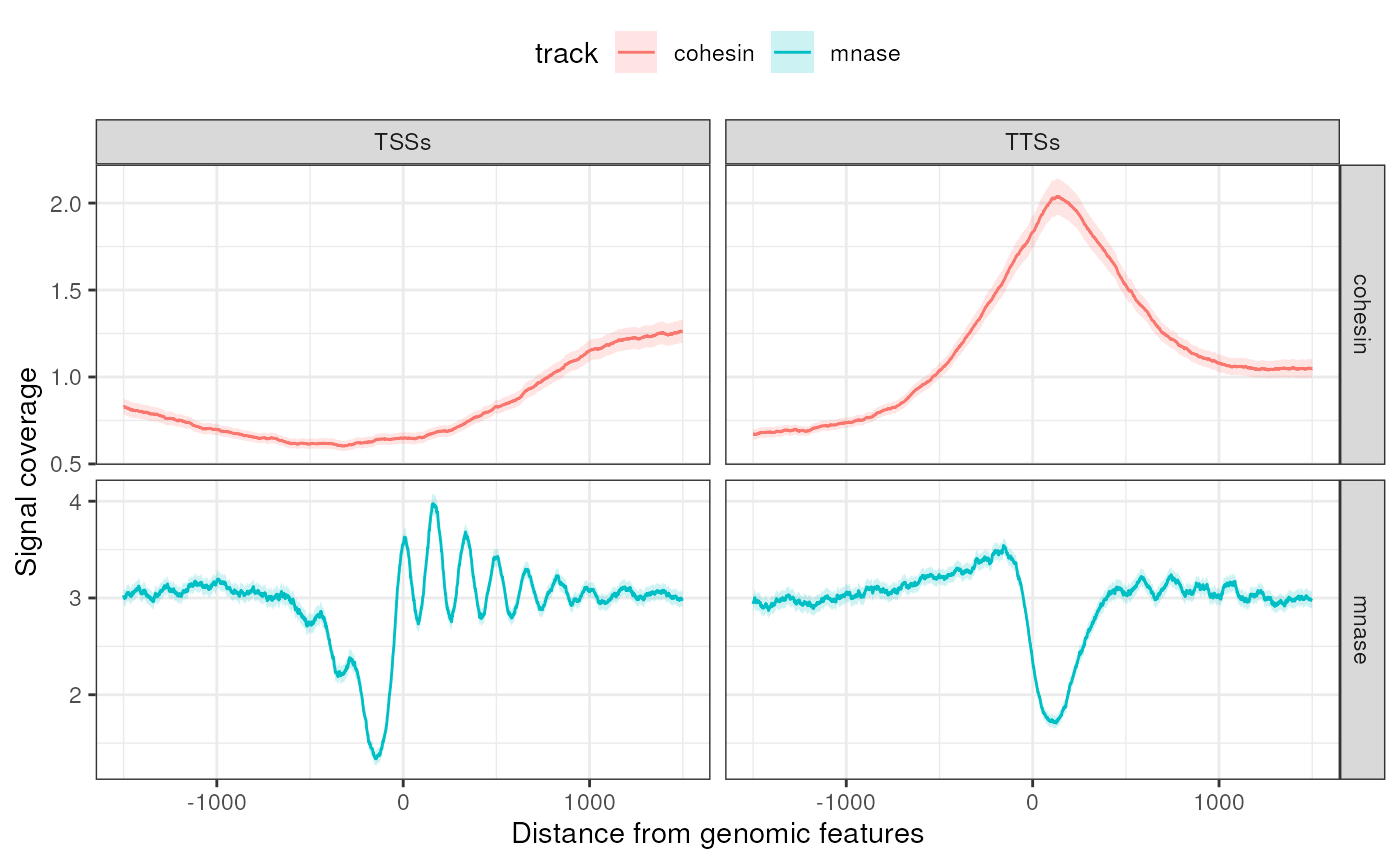
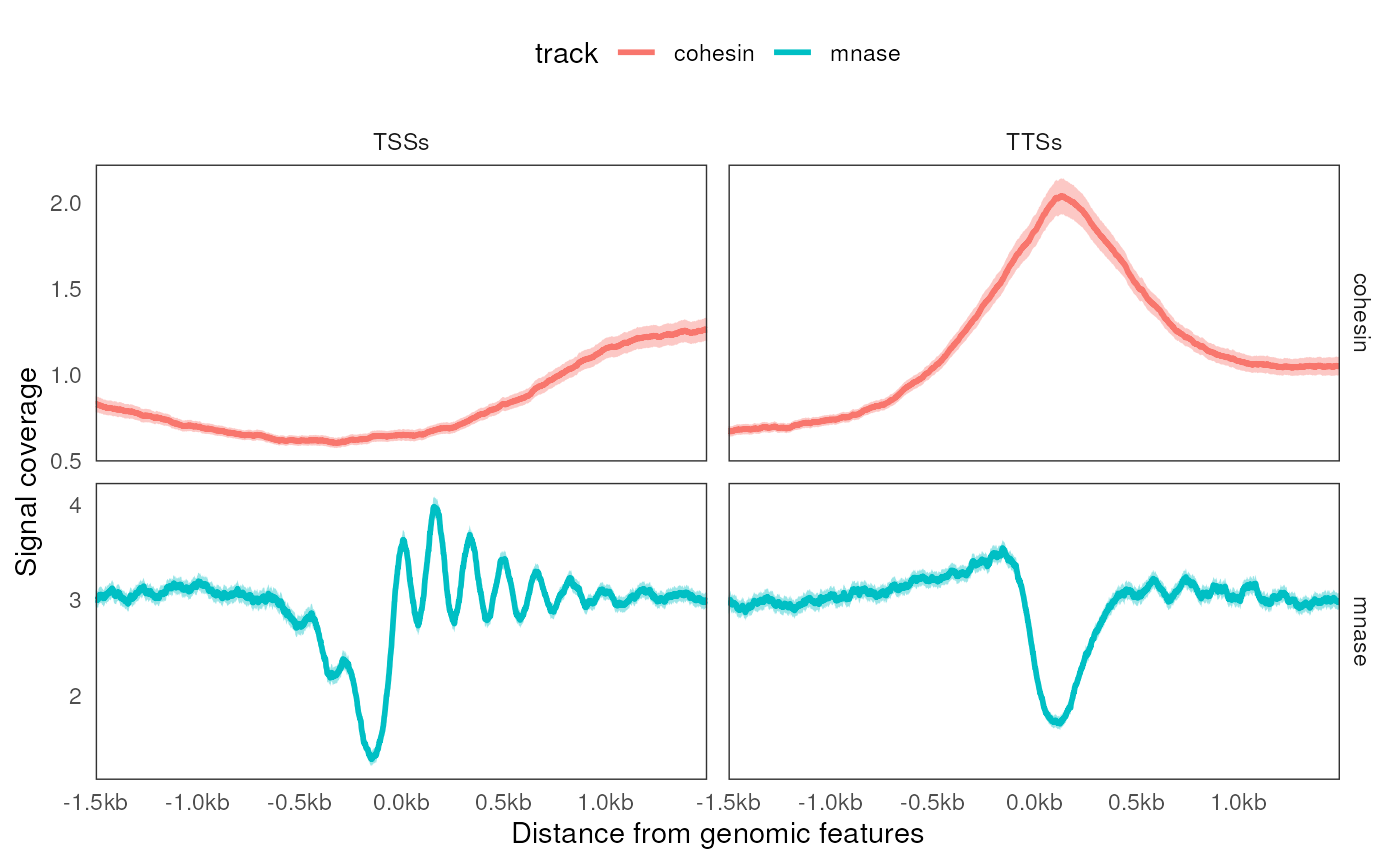
Deploying to gh-pages from @ js2264/Bioc2024tidyworkshop@3468d8a08f8244f174192cf76b7472bbe013caef 🚀

diff --git a/articles/workshop.html b/articles/workshop.html
@@ -921,18 +921,18 @@ features<a class="anchor" aria-label="anchor" href="#creating-a-coverageexperime
 <span><span class="va">tib</span></span>
 <span><span class="co">#&gt; <span style="color: #949494;"># A tibble: 21,402,000 × 8</span></span></span>
 <span><span class="co">#&gt; <span style="color: #949494;"># Groups:   track, features, ranges [7,134]</span></span></span>
-<span><span class="co">#&gt;    track features chr   ranges         strand coord coverage coord.scaled</span></span>
-<span><span class="co">#&gt;    <span style="color: #949494; font-style: italic;">&lt;chr&gt;</span> <span style="color: #949494; font-style: italic;">&lt;chr&gt;</span>    <span style="color: #949494; font-style: italic;">&lt;chr&gt;</span> <span style="color: #949494; font-style: italic;">&lt;chr&gt;</span>          <span style="color: #949494; font-style: italic;">&lt;chr&gt;</span>  <span style="color: #949494; font-style: italic;">&lt;dbl&gt;</span>    <span style="color: #949494; font-style: italic;">&lt;dbl&gt;</span>        <span style="color: #949494; font-style: italic;">&lt;dbl&gt;</span></span></span>
-<span><span class="co">#&gt; <span style="color: #BCBCBC;"> 1</span> mnase TSSs     II    II:4290-7289:+ +       <span style="text-decoration: underline;">4</span>290        0        -<span style="color: #BB0000; text-decoration: underline;">1</span><span style="color: #BB0000;">500</span></span></span>
-<span><span class="co">#&gt; <span style="color: #BCBCBC;"> 2</span> mnase TSSs     II    II:4290-7289:+ +       <span style="text-decoration: underline;">4</span>291        0        -<span style="color: #BB0000; text-decoration: underline;">1</span><span style="color: #BB0000;">499</span></span></span>
-<span><span class="co">#&gt; <span style="color: #BCBCBC;"> 3</span> mnase TSSs     II    II:4290-7289:+ +       <span style="text-decoration: underline;">4</span>292        0        -<span style="color: #BB0000; text-decoration: underline;">1</span><span style="color: #BB0000;">498</span></span></span>
-<span><span class="co">#&gt; <span style="color: #BCBCBC;"> 4</span> mnase TSSs     II    II:4290-7289:+ +       <span style="text-decoration: underline;">4</span>293        0        -<span style="color: #BB0000; text-decoration: underline;">1</span><span style="color: #BB0000;">497</span></span></span>
-<span><span class="co">#&gt; <span style="color: #BCBCBC;"> 5</span> mnase TSSs     II    II:4290-7289:+ +       <span style="text-decoration: underline;">4</span>294        0        -<span style="color: #BB0000; text-decoration: underline;">1</span><span style="color: #BB0000;">496</span></span></span>
-<span><span class="co">#&gt; <span style="color: #BCBCBC;"> 6</span> mnase TSSs     II    II:4290-7289:+ +       <span style="text-decoration: underline;">4</span>295        0        -<span style="color: #BB0000; text-decoration: underline;">1</span><span style="color: #BB0000;">495</span></span></span>
-<span><span class="co">#&gt; <span style="color: #BCBCBC;"> 7</span> mnase TSSs     II    II:4290-7289:+ +       <span style="text-decoration: underline;">4</span>296        0        -<span style="color: #BB0000; text-decoration: underline;">1</span><span style="color: #BB0000;">494</span></span></span>
-<span><span class="co">#&gt; <span style="color: #BCBCBC;"> 8</span> mnase TSSs     II    II:4290-7289:+ +       <span style="text-decoration: underline;">4</span>297        0        -<span style="color: #BB0000; text-decoration: underline;">1</span><span style="color: #BB0000;">493</span></span></span>
-<span><span class="co">#&gt; <span style="color: #BCBCBC;"> 9</span> mnase TSSs     II    II:4290-7289:+ +       <span style="text-decoration: underline;">4</span>298        0        -<span style="color: #BB0000; text-decoration: underline;">1</span><span style="color: #BB0000;">492</span></span></span>
-<span><span class="co">#&gt; <span style="color: #BCBCBC;">10</span> mnase TSSs     II    II:4290-7289:+ +       <span style="text-decoration: underline;">4</span>299        0        -<span style="color: #BB0000; text-decoration: underline;">1</span><span style="color: #BB0000;">491</span></span></span>
+<span><span class="co">#&gt;    track features chr   ranges             strand  coord coverage coord.scaled</span></span>
+<span><span class="co">#&gt;    <span style="color: #949494; font-style: italic;">&lt;chr&gt;</span> <span style="color: #949494; font-style: italic;">&lt;fct&gt;</span>    <span style="color: #949494; font-style: italic;">&lt;chr&gt;</span> <span style="color: #949494; font-style: italic;">&lt;chr&gt;</span>              <span style="color: #949494; font-style: italic;">&lt;chr&gt;</span>   <span style="color: #949494; font-style: italic;">&lt;dbl&gt;</span>    <span style="color: #949494; font-style: italic;">&lt;dbl&gt;</span>        <span style="color: #949494; font-style: italic;">&lt;dbl&gt;</span></span></span>
+<span><span class="co">#&gt; <span style="color: #BCBCBC;"> 1</span> mnase TSSs     II    II:235967-238966:- -      <span style="text-decoration: underline;">235</span>967    0.887        -<span style="color: #BB0000; text-decoration: underline;">1</span><span style="color: #BB0000;">500</span></span></span>
+<span><span class="co">#&gt; <span style="color: #BCBCBC;"> 2</span> mnase TSSs     II    II:235967-238966:- -      <span style="text-decoration: underline;">235</span>968    0.887        -<span style="color: #BB0000; text-decoration: underline;">1</span><span style="color: #BB0000;">499</span></span></span>
+<span><span class="co">#&gt; <span style="color: #BCBCBC;"> 3</span> mnase TSSs     II    II:235967-238966:- -      <span style="text-decoration: underline;">235</span>969    0.887        -<span style="color: #BB0000; text-decoration: underline;">1</span><span style="color: #BB0000;">498</span></span></span>
+<span><span class="co">#&gt; <span style="color: #BCBCBC;"> 4</span> mnase TSSs     II    II:235967-238966:- -      <span style="text-decoration: underline;">235</span>970    0.887        -<span style="color: #BB0000; text-decoration: underline;">1</span><span style="color: #BB0000;">497</span></span></span>
+<span><span class="co">#&gt; <span style="color: #BCBCBC;"> 5</span> mnase TSSs     II    II:235967-238966:- -      <span style="text-decoration: underline;">235</span>971    0.887        -<span style="color: #BB0000; text-decoration: underline;">1</span><span style="color: #BB0000;">496</span></span></span>
+<span><span class="co">#&gt; <span style="color: #BCBCBC;"> 6</span> mnase TSSs     II    II:235967-238966:- -      <span style="text-decoration: underline;">235</span>972    0.887        -<span style="color: #BB0000; text-decoration: underline;">1</span><span style="color: #BB0000;">495</span></span></span>
+<span><span class="co">#&gt; <span style="color: #BCBCBC;"> 7</span> mnase TSSs     II    II:235967-238966:- -      <span style="text-decoration: underline;">235</span>973    0.887        -<span style="color: #BB0000; text-decoration: underline;">1</span><span style="color: #BB0000;">494</span></span></span>
+<span><span class="co">#&gt; <span style="color: #BCBCBC;"> 8</span> mnase TSSs     II    II:235967-238966:- -      <span style="text-decoration: underline;">235</span>974    0.887        -<span style="color: #BB0000; text-decoration: underline;">1</span><span style="color: #BB0000;">493</span></span></span>
+<span><span class="co">#&gt; <span style="color: #BCBCBC;"> 9</span> mnase TSSs     II    II:235967-238966:- -      <span style="text-decoration: underline;">235</span>975    0.887        -<span style="color: #BB0000; text-decoration: underline;">1</span><span style="color: #BB0000;">492</span></span></span>
+<span><span class="co">#&gt; <span style="color: #BCBCBC;">10</span> mnase TSSs     II    II:235967-238966:- -      <span style="text-decoration: underline;">235</span>976    0.887        -<span style="color: #BB0000; text-decoration: underline;">1</span><span style="color: #BB0000;">491</span></span></span>
 <span><span class="co">#&gt; <span style="color: #949494;"># ℹ 21,401,990 more rows</span></span></span>
 <span></span>
 <span><span class="va">ac</span> <span class="op">&lt;-</span> <span class="fu"><a href="https://rdrr.io/r/stats/aggregate.html" class="external-link">aggregate</a></span><span class="op">(</span><span class="va">ce</span><span class="op">)</span></span>
@@ -943,7 +943,7 @@ features<a class="anchor" aria-label="anchor" href="#creating-a-coverageexperime
 <span><span class="co">#&gt; # <span style="color: #555555;">  ci_high</span></span></span>
 <span><span class="co">#&gt; <span style="color: #949494;"># </span><span style="color: #555555;">width=3000 | binning=1</span></span></span>
 <span><span class="co">#&gt;    .sample .feature track features coord  mean median   min   max    sd     se</span></span>
-<span><span class="co">#&gt;    <span style="color: #949494; font-style: italic;">&lt;chr&gt;</span>   <span style="color: #949494; font-style: italic;">&lt;chr&gt;</span>    <span style="color: #949494; font-style: italic;">&lt;chr&gt;</span> <span style="color: #949494; font-style: italic;">&lt;chr&gt;</span>    <span style="color: #949494; font-style: italic;">&lt;dbl&gt;</span> <span style="color: #949494; font-style: italic;">&lt;dbl&gt;</span>  <span style="color: #949494; font-style: italic;">&lt;dbl&gt;</span> <span style="color: #949494; font-style: italic;">&lt;dbl&gt;</span> <span style="color: #949494; font-style: italic;">&lt;dbl&gt;</span> <span style="color: #949494; font-style: italic;">&lt;dbl&gt;</span>  <span style="color: #949494; font-style: italic;">&lt;dbl&gt;</span></span></span>
+<span><span class="co">#&gt;    <span style="color: #949494; font-style: italic;">&lt;chr&gt;</span>   <span style="color: #949494; font-style: italic;">&lt;fct&gt;</span>    <span style="color: #949494; font-style: italic;">&lt;chr&gt;</span> <span style="color: #949494; font-style: italic;">&lt;fct&gt;</span>    <span style="color: #949494; font-style: italic;">&lt;dbl&gt;</span> <span style="color: #949494; font-style: italic;">&lt;dbl&gt;</span>  <span style="color: #949494; font-style: italic;">&lt;dbl&gt;</span> <span style="color: #949494; font-style: italic;">&lt;dbl&gt;</span> <span style="color: #949494; font-style: italic;">&lt;dbl&gt;</span> <span style="color: #949494; font-style: italic;">&lt;dbl&gt;</span>  <span style="color: #949494; font-style: italic;">&lt;dbl&gt;</span></span></span>
 <span><span class="co">#&gt; <span style="color: #BCBCBC;"> 1</span> mnase   TSSs     mnase TSSs     -<span style="color: #BB0000; text-decoration: underline;">1</span><span style="color: #BB0000;">500</span>  3.03   2.93     0  9.01  1.84 0.043<span style="text-decoration: underline;">6</span></span></span>
 <span><span class="co">#&gt; <span style="color: #BCBCBC;"> 2</span> mnase   TSSs     mnase TSSs     -<span style="color: #BB0000; text-decoration: underline;">1</span><span style="color: #BB0000;">499</span>  3.01   2.90     0  9.01  1.84 0.043<span style="text-decoration: underline;">5</span></span></span>
 <span><span class="co">#&gt; <span style="color: #BCBCBC;"> 3</span> mnase   TSSs     mnase TSSs     -<span style="color: #BB0000; text-decoration: underline;">1</span><span style="color: #BB0000;">498</span>  3.01   2.90     0  9.01  1.83 0.043<span style="text-decoration: underline;">4</span></span></span>
@@ -963,12 +963,9 @@ features<a class="anchor" aria-label="anchor" href="#creating-a-coverageexperime
 <div class="sourceCode" id="cb20"><pre class="downlit sourceCode r">
 <code class="sourceCode R"><span><span class="va">ac</span> <span class="op">|&gt;</span></span>
 <span>    <span class="fu"><a href="https://ggplot2.tidyverse.org/reference/ggplot.html" class="external-link">ggplot</a></span><span class="op">(</span><span class="fu"><a href="https://ggplot2.tidyverse.org/reference/aes.html" class="external-link">aes</a></span><span class="op">(</span>x <span class="op">=</span> <span class="va">coord</span>, y <span class="op">=</span> <span class="va">mean</span><span class="op">)</span><span class="op">)</span> <span class="op">+</span> </span>
-<span>    <span class="fu"><a href="https://ggplot2.tidyverse.org/reference/geom_ribbon.html" class="external-link">geom_ribbon</a></span><span class="op">(</span><span class="fu"><a href="https://ggplot2.tidyverse.org/reference/aes.html" class="external-link">aes</a></span><span class="op">(</span>ymin <span class="op">=</span> <span class="va">ci_low</span>, ymax <span class="op">=</span> <span class="va">ci_high</span>, fill <span class="op">=</span> <span class="va">track</span><span class="op">)</span>, alpha <span class="op">=</span> <span class="fl">0.2</span><span class="op">)</span> <span class="op">+</span> </span>
-<span>    <span class="fu"><a href="https://ggplot2.tidyverse.org/reference/geom_path.html" class="external-link">geom_line</a></span><span class="op">(</span><span class="fu"><a href="https://ggplot2.tidyverse.org/reference/aes.html" class="external-link">aes</a></span><span class="op">(</span>col <span class="op">=</span> <span class="va">track</span><span class="op">)</span><span class="op">)</span> <span class="op">+</span> </span>
+<span>    <span class="fu"><a href="https://rdrr.io/pkg/tidyCoverage/man/ggplot-tidyCoverage.html" class="external-link">geom_aggrcoverage</a></span><span class="op">(</span><span class="fu"><a href="https://ggplot2.tidyverse.org/reference/aes.html" class="external-link">aes</a></span><span class="op">(</span>col <span class="op">=</span> <span class="va">track</span><span class="op">)</span><span class="op">)</span> <span class="op">+</span> </span>
 <span>    <span class="fu"><a href="https://ggplot2.tidyverse.org/reference/facet_grid.html" class="external-link">facet_grid</a></span><span class="op">(</span><span class="va">track</span> <span class="op">~</span> <span class="va">features</span>, scales <span class="op">=</span> <span class="st">"free"</span><span class="op">)</span> <span class="op">+</span> </span>
-<span>    <span class="fu"><a href="https://ggplot2.tidyverse.org/reference/labs.html" class="external-link">labs</a></span><span class="op">(</span>x <span class="op">=</span> <span class="st">'Distance from genomic features'</span>, y <span class="op">=</span> <span class="st">'Signal coverage'</span><span class="op">)</span> <span class="op">+</span> </span>
-<span>    <span class="fu"><a href="https://ggplot2.tidyverse.org/reference/ggtheme.html" class="external-link">theme_bw</a></span><span class="op">(</span><span class="op">)</span> <span class="op">+</span> </span>
-<span>    <span class="fu"><a href="https://ggplot2.tidyverse.org/reference/theme.html" class="external-link">theme</a></span><span class="op">(</span>legend.position <span class="op">=</span> <span class="st">'top'</span><span class="op">)</span></span></code></pre></div>
+<span>    <span class="fu"><a href="https://ggplot2.tidyverse.org/reference/labs.html" class="external-link">labs</a></span><span class="op">(</span>x <span class="op">=</span> <span class="st">'Distance from genomic features'</span>, y <span class="op">=</span> <span class="st">'Signal coverage'</span><span class="op">)</span></span></code></pre></div>
 <p><img src="workshop_files/figure-html/unnamed-chunk-21-1.png" width="700"></p>
 </div>
 </div>
@@ -1006,52 +1003,42 @@ elements<a class="anchor" aria-label="anchor" href="#real-world-use-case-studyin
 <span><span class="fu"><a href="https://rdrr.io/r/base/names.html" class="external-link">names</a></span><span class="op">(</span><span class="va">bws</span><span class="op">)</span> <span class="op">&lt;-</span> <span class="fu"><a href="https://rdrr.io/r/base/names.html" class="external-link">names</a></span><span class="op">(</span><span class="va">ids</span><span class="op">)</span></span></code></pre></div>
 </div>
 <div class="section level4">
-<h4 id="import-dnase-peaks-from-encode">Import DNase peaks from ENCODE<a class="anchor" aria-label="anchor" href="#import-dnase-peaks-from-encode"></a>
+<h4 id="plotting-coverage-data-over-several-loci">Plotting coverage data over several loci<a class="anchor" aria-label="anchor" href="#plotting-coverage-data-over-several-loci"></a>
 </h4>
 <div class="sourceCode" id="cb22"><pre class="downlit sourceCode r">
+<code class="sourceCode R"><span><span class="va">ce</span> <span class="op">&lt;-</span> <span class="fu"><a href="https://rdrr.io/pkg/tidyCoverage/man/CoverageExperiment.html" class="external-link">CoverageExperiment</a></span><span class="op">(</span></span>
+<span>    <span class="va">bws</span>, </span>
+<span>    <span class="fu"><a href="https://rdrr.io/r/base/list.html" class="external-link">list</a></span><span class="op">(</span></span>
+<span>        ccno <span class="op">=</span> <span class="fu"><a href="https://rdrr.io/pkg/GenomicRanges/man/GRanges-class.html" class="external-link">GRanges</a></span><span class="op">(</span><span class="st">"chr5:55220001-55235000"</span><span class="op">)</span>,</span>
+<span>        mcidas <span class="op">=</span> <span class="fu"><a href="https://rdrr.io/pkg/GenomicRanges/man/GRanges-class.html" class="external-link">GRanges</a></span><span class="op">(</span><span class="st">"chr5:55159001-55174000"</span><span class="op">)</span></span>
+<span>    <span class="op">)</span>, </span>
+<span>    window <span class="op">=</span> <span class="fl">50</span></span>
+<span><span class="op">)</span></span>
+<span><span class="fu"><a href="https://tidyr.tidyverse.org/reference/expand.html" class="external-link">expand</a></span><span class="op">(</span><span class="va">ce</span><span class="op">)</span> <span class="op">|&gt;</span> </span>
+<span>    <span class="fu"><a href="https://dplyr.tidyverse.org/reference/mutate.html" class="external-link">mutate</a></span><span class="op">(</span>coverage <span class="op">=</span> <span class="fu">scales</span><span class="fu">::</span><span class="fu"><a href="https://scales.r-lib.org/reference/oob.html" class="external-link">oob_squish</a></span><span class="op">(</span><span class="va">coverage</span>, <span class="fu"><a href="https://rdrr.io/r/base/c.html" class="external-link">c</a></span><span class="op">(</span><span class="fl">0</span>, <span class="fl">10</span><span class="op">)</span><span class="op">)</span><span class="op">)</span> <span class="op">|&gt;</span> </span>
+<span>    <span class="fu"><a href="https://ggplot2.tidyverse.org/reference/ggplot.html" class="external-link">ggplot</a></span><span class="op">(</span><span class="op">)</span> <span class="op">+</span></span>
+<span>    <span class="fu"><a href="https://rdrr.io/pkg/tidyCoverage/man/ggplot-tidyCoverage.html" class="external-link">geom_coverage</a></span><span class="op">(</span><span class="fu"><a href="https://ggplot2.tidyverse.org/reference/aes.html" class="external-link">aes</a></span><span class="op">(</span>fill <span class="op">=</span> <span class="va">track</span><span class="op">)</span>, unit <span class="op">=</span> <span class="st">'Mb'</span><span class="op">)</span> <span class="op">+</span> </span>
+<span>    <span class="fu"><a href="https://ggplot2.tidyverse.org/reference/facet_grid.html" class="external-link">facet_grid</a></span><span class="op">(</span><span class="va">track</span><span class="op">~</span><span class="va">features</span>, scales <span class="op">=</span> <span class="st">'free'</span><span class="op">)</span></span></code></pre></div>
+<p><img src="workshop_files/figure-html/unnamed-chunk-23-1.png" width="700"></p>
+</div>
+<div class="section level4">
+<h4 id="import-dnase-peaks-from-encode">Import DNase peaks from ENCODE<a class="anchor" aria-label="anchor" href="#import-dnase-peaks-from-encode"></a>
+</h4>
+<div class="sourceCode" id="cb23"><pre class="downlit sourceCode r">
 <code class="sourceCode R"><span><span class="va">features</span> <span class="op">&lt;-</span> <span class="fu"><a href="https://rdrr.io/r/base/list.html" class="external-link">list</a></span><span class="op">(</span>DNase <span class="op">=</span> <span class="va">ah</span><span class="op">[[</span><span class="st">'AH30077'</span><span class="op">]</span><span class="op">]</span> <span class="op">|&gt;</span> <span class="fu"><a href="https://dplyr.tidyverse.org/reference/filter.html" class="external-link">filter</a></span><span class="op">(</span><span class="va">zScore</span> <span class="op">&gt;</span> <span class="fl">100</span><span class="op">)</span><span class="op">)</span></span>
 <span><span class="co">#&gt; loading from cache</span></span></code></pre></div>
 </div>
 <div class="section level4">
 <h4 id="generating-coverage-aggregates-over-dnase-peak">Generating coverage aggregates over DNAse peak<a class="anchor" aria-label="anchor" href="#generating-coverage-aggregates-over-dnase-peak"></a>
 </h4>
-<div class="sourceCode" id="cb23"><pre class="downlit sourceCode r">
-<code class="sourceCode R"><span><span class="va">ce</span> <span class="op">&lt;-</span> <span class="fu"><a href="https://rdrr.io/pkg/tidyCoverage/man/CoverageExperiment.html" class="external-link">CoverageExperiment</a></span><span class="op">(</span><span class="va">bws</span>, <span class="va">features</span>, width <span class="op">=</span> <span class="fl">2000</span>, window <span class="op">=</span> <span class="fl">10</span><span class="op">)</span></span></code></pre></div>
 <div class="sourceCode" id="cb24"><pre class="downlit sourceCode r">
+<code class="sourceCode R"><span><span class="va">ce</span> <span class="op">&lt;-</span> <span class="fu"><a href="https://rdrr.io/pkg/tidyCoverage/man/CoverageExperiment.html" class="external-link">CoverageExperiment</a></span><span class="op">(</span><span class="va">bws</span>, <span class="va">features</span>, width <span class="op">=</span> <span class="fl">2000</span>, window <span class="op">=</span> <span class="fl">10</span><span class="op">)</span></span></code></pre></div>
+<div class="sourceCode" id="cb25"><pre class="downlit sourceCode r">
 <code class="sourceCode R"><span><span class="fu"><a href="https://rdrr.io/r/stats/aggregate.html" class="external-link">aggregate</a></span><span class="op">(</span><span class="va">ce</span><span class="op">)</span> <span class="op">|&gt;</span> </span>
 <span>    <span class="fu"><a href="https://ggplot2.tidyverse.org/reference/ggplot.html" class="external-link">ggplot</a></span><span class="op">(</span><span class="fu"><a href="https://ggplot2.tidyverse.org/reference/aes.html" class="external-link">aes</a></span><span class="op">(</span>x <span class="op">=</span> <span class="va">coord</span>, y <span class="op">=</span> <span class="va">mean</span><span class="op">)</span><span class="op">)</span> <span class="op">+</span> </span>
-<span>    <span class="fu"><a href="https://ggplot2.tidyverse.org/reference/geom_ribbon.html" class="external-link">geom_ribbon</a></span><span class="op">(</span><span class="fu"><a href="https://ggplot2.tidyverse.org/reference/aes.html" class="external-link">aes</a></span><span class="op">(</span>ymin <span class="op">=</span> <span class="va">ci_low</span>, ymax <span class="op">=</span> <span class="va">ci_high</span>, fill <span class="op">=</span> <span class="va">track</span><span class="op">)</span>, alpha <span class="op">=</span> <span class="fl">0.2</span><span class="op">)</span> <span class="op">+</span> </span>
-<span>    <span class="fu"><a href="https://ggplot2.tidyverse.org/reference/geom_path.html" class="external-link">geom_line</a></span><span class="op">(</span><span class="fu"><a href="https://ggplot2.tidyverse.org/reference/aes.html" class="external-link">aes</a></span><span class="op">(</span>col <span class="op">=</span> <span class="va">track</span><span class="op">)</span><span class="op">)</span> <span class="op">+</span> </span>
+<span>    <span class="fu"><a href="https://rdrr.io/pkg/tidyCoverage/man/ggplot-tidyCoverage.html" class="external-link">geom_aggrcoverage</a></span><span class="op">(</span><span class="fu"><a href="https://ggplot2.tidyverse.org/reference/aes.html" class="external-link">aes</a></span><span class="op">(</span>col <span class="op">=</span> <span class="va">track</span><span class="op">)</span><span class="op">)</span> <span class="op">+</span> </span>
 <span>    <span class="fu"><a href="https://ggplot2.tidyverse.org/reference/facet_wrap.html" class="external-link">facet_wrap</a></span><span class="op">(</span><span class="op">~</span><span class="va">track</span><span class="op">)</span> <span class="op">+</span> </span>
-<span>    <span class="fu"><a href="https://ggplot2.tidyverse.org/reference/labs.html" class="external-link">labs</a></span><span class="op">(</span>x <span class="op">=</span> <span class="st">'Distance from DNAse peak'</span>, y <span class="op">=</span> <span class="st">'Signal'</span><span class="op">)</span> <span class="op">+</span> </span>
-<span>    <span class="fu"><a href="https://ggplot2.tidyverse.org/reference/ggtheme.html" class="external-link">theme_bw</a></span><span class="op">(</span><span class="op">)</span> <span class="op">+</span> </span>
-<span>    <span class="fu"><a href="https://ggplot2.tidyverse.org/reference/theme.html" class="external-link">theme</a></span><span class="op">(</span>legend.position <span class="op">=</span> <span class="st">'top'</span><span class="op">)</span></span></code></pre></div>
-<p><img src="workshop_files/figure-html/unnamed-chunk-25-1.png" width="700"></p>
-<div class="sourceCode" id="cb25"><pre class="downlit sourceCode r">
-<code class="sourceCode R"><span><span class="va">ranges.order</span> <span class="op">&lt;-</span> <span class="va">ce</span> <span class="op">|&gt;</span> </span>
-<span>    <span class="fu"><a href="https://tidyr.tidyverse.org/reference/expand.html" class="external-link">expand</a></span><span class="op">(</span><span class="op">)</span> <span class="op">|&gt;</span> </span>
-<span>    <span class="fu"><a href="https://dplyr.tidyverse.org/reference/filter.html" class="external-link">filter</a></span><span class="op">(</span><span class="va">track</span> <span class="op">==</span> <span class="st">'DNase'</span>, <span class="va">coord.scaled</span> <span class="op">&gt;=</span> <span class="op">-</span><span class="fl">100</span>, <span class="va">coord.scaled</span> <span class="op">&lt;=</span> <span class="fl">100</span><span class="op">)</span> <span class="op">|&gt;</span> </span>
-<span>    <span class="fu"><a href="https://dplyr.tidyverse.org/reference/summarise.html" class="external-link">summarize</a></span><span class="op">(</span>sum <span class="op">=</span> <span class="fu"><a href="https://rdrr.io/r/base/sum.html" class="external-link">sum</a></span><span class="op">(</span><span class="va">coverage</span>, na.rm <span class="op">=</span> <span class="cn">TRUE</span><span class="op">)</span><span class="op">)</span> <span class="op">|&gt;</span> </span>
-<span>    <span class="fu"><a href="https://dplyr.tidyverse.org/reference/arrange.html" class="external-link">arrange</a></span><span class="op">(</span><span class="fu"><a href="https://dplyr.tidyverse.org/reference/desc.html" class="external-link">desc</a></span><span class="op">(</span><span class="va">sum</span><span class="op">)</span><span class="op">)</span> <span class="op">|&gt;</span></span>
-<span>    <span class="fu"><a href="https://dplyr.tidyverse.org/reference/pull.html" class="external-link">pull</a></span><span class="op">(</span><span class="va">ranges</span><span class="op">)</span> <span class="op">|&gt;</span> </span>
-<span>    <span class="fu"><a href="https://rdrr.io/pkg/S4Vectors/man/Vector-class.html" class="external-link">rev</a></span><span class="op">(</span><span class="op">)</span></span>
-<span><span class="co">#&gt; `summarise()` has grouped output by 'track', 'features'. You can override using</span></span>
-<span><span class="co">#&gt; the `.groups` argument.</span></span>
-<span></span>
-<span><span class="va">ce</span> <span class="op">|&gt;</span> </span>
-<span>    <span class="fu"><a href="https://tidyr.tidyverse.org/reference/expand.html" class="external-link">expand</a></span><span class="op">(</span><span class="op">)</span> <span class="op">|&gt;</span> </span>
-<span>    <span class="fu"><a href="https://dplyr.tidyverse.org/reference/mutate.html" class="external-link">mutate</a></span><span class="op">(</span>ranges <span class="op">=</span> <span class="fu"><a href="https://rdrr.io/r/base/factor.html" class="external-link">factor</a></span><span class="op">(</span><span class="va">ranges</span>, levels <span class="op">=</span> <span class="va">ranges.order</span><span class="op">)</span><span class="op">)</span> <span class="op">|&gt;</span> </span>
-<span>    <span class="fu"><a href="https://ggplot2.tidyverse.org/reference/ggplot.html" class="external-link">ggplot</a></span><span class="op">(</span><span class="fu"><a href="https://ggplot2.tidyverse.org/reference/aes.html" class="external-link">aes</a></span><span class="op">(</span>x <span class="op">=</span> <span class="va">coord.scaled</span>, y <span class="op">=</span> <span class="va">ranges</span>, fill <span class="op">=</span> <span class="va">coverage</span><span class="op">)</span><span class="op">)</span> <span class="op">+</span> </span>
-<span>    <span class="fu"><a href="https://ggplot2.tidyverse.org/reference/geom_tile.html" class="external-link">geom_tile</a></span><span class="op">(</span><span class="op">)</span> <span class="op">+</span></span>
-<span>    <span class="fu"><a href="https://ggplot2.tidyverse.org/reference/labs.html" class="external-link">labs</a></span><span class="op">(</span>x <span class="op">=</span> <span class="st">'Distance from DNAse peak'</span>, y <span class="op">=</span> <span class="st">'Signal'</span><span class="op">)</span> <span class="op">+</span> </span>
-<span>    <span class="fu"><a href="https://ggplot2.tidyverse.org/reference/facet_grid.html" class="external-link">facet_grid</a></span><span class="op">(</span><span class="op">~</span><span class="va">track</span><span class="op">)</span> <span class="op">+</span></span>
-<span>    <span class="fu"><a href="https://ggplot2.tidyverse.org/reference/scale_continuous.html" class="external-link">scale_x_continuous</a></span><span class="op">(</span>expand <span class="op">=</span> <span class="fu"><a href="https://rdrr.io/r/base/c.html" class="external-link">c</a></span><span class="op">(</span><span class="fl">0</span>, <span class="fl">0</span><span class="op">)</span><span class="op">)</span> <span class="op">+</span> </span>
-<span>    <span class="fu"><a href="https://ggplot2.tidyverse.org/reference/scale_brewer.html" class="external-link">scale_fill_distiller</a></span><span class="op">(</span>palette <span class="op">=</span> <span class="st">"OrRd"</span>, na.value <span class="op">=</span> <span class="st">'#fff5ed'</span>, direction <span class="op">=</span> <span class="fl">1</span>, limits <span class="op">=</span> <span class="fu"><a href="https://rdrr.io/r/base/c.html" class="external-link">c</a></span><span class="op">(</span><span class="fl">5</span>, <span class="fl">60</span><span class="op">)</span>, oob <span class="op">=</span> <span class="fu">scales</span><span class="fu">::</span><span class="va"><a href="https://scales.r-lib.org/reference/oob.html" class="external-link">squish</a></span><span class="op">)</span> <span class="op">+</span></span>
-<span>    <span class="fu"><a href="https://ggplot2.tidyverse.org/reference/ggtheme.html" class="external-link">theme_bw</a></span><span class="op">(</span><span class="op">)</span> <span class="op">+</span> </span>
-<span>    <span class="fu"><a href="https://ggplot2.tidyverse.org/reference/theme.html" class="external-link">theme</a></span><span class="op">(</span></span>
-<span>        legend.position <span class="op">=</span> <span class="st">'top'</span>, </span>
-<span>        axis.ticks.y <span class="op">=</span> <span class="fu"><a href="https://ggplot2.tidyverse.org/reference/element.html" class="external-link">element_blank</a></span><span class="op">(</span><span class="op">)</span>, axis.text.y <span class="op">=</span> <span class="fu"><a href="https://ggplot2.tidyverse.org/reference/element.html" class="external-link">element_blank</a></span><span class="op">(</span><span class="op">)</span></span>
-<span>    <span class="op">)</span></span></code></pre></div>
+<span>    <span class="fu"><a href="https://ggplot2.tidyverse.org/reference/labs.html" class="external-link">labs</a></span><span class="op">(</span>x <span class="op">=</span> <span class="st">'Distance from DNAse peak'</span>, y <span class="op">=</span> <span class="st">'Signal'</span><span class="op">)</span> </span></code></pre></div>
 <p><img src="workshop_files/figure-html/unnamed-chunk-26-1.png" width="700"></p>
 </div>
 </div>
